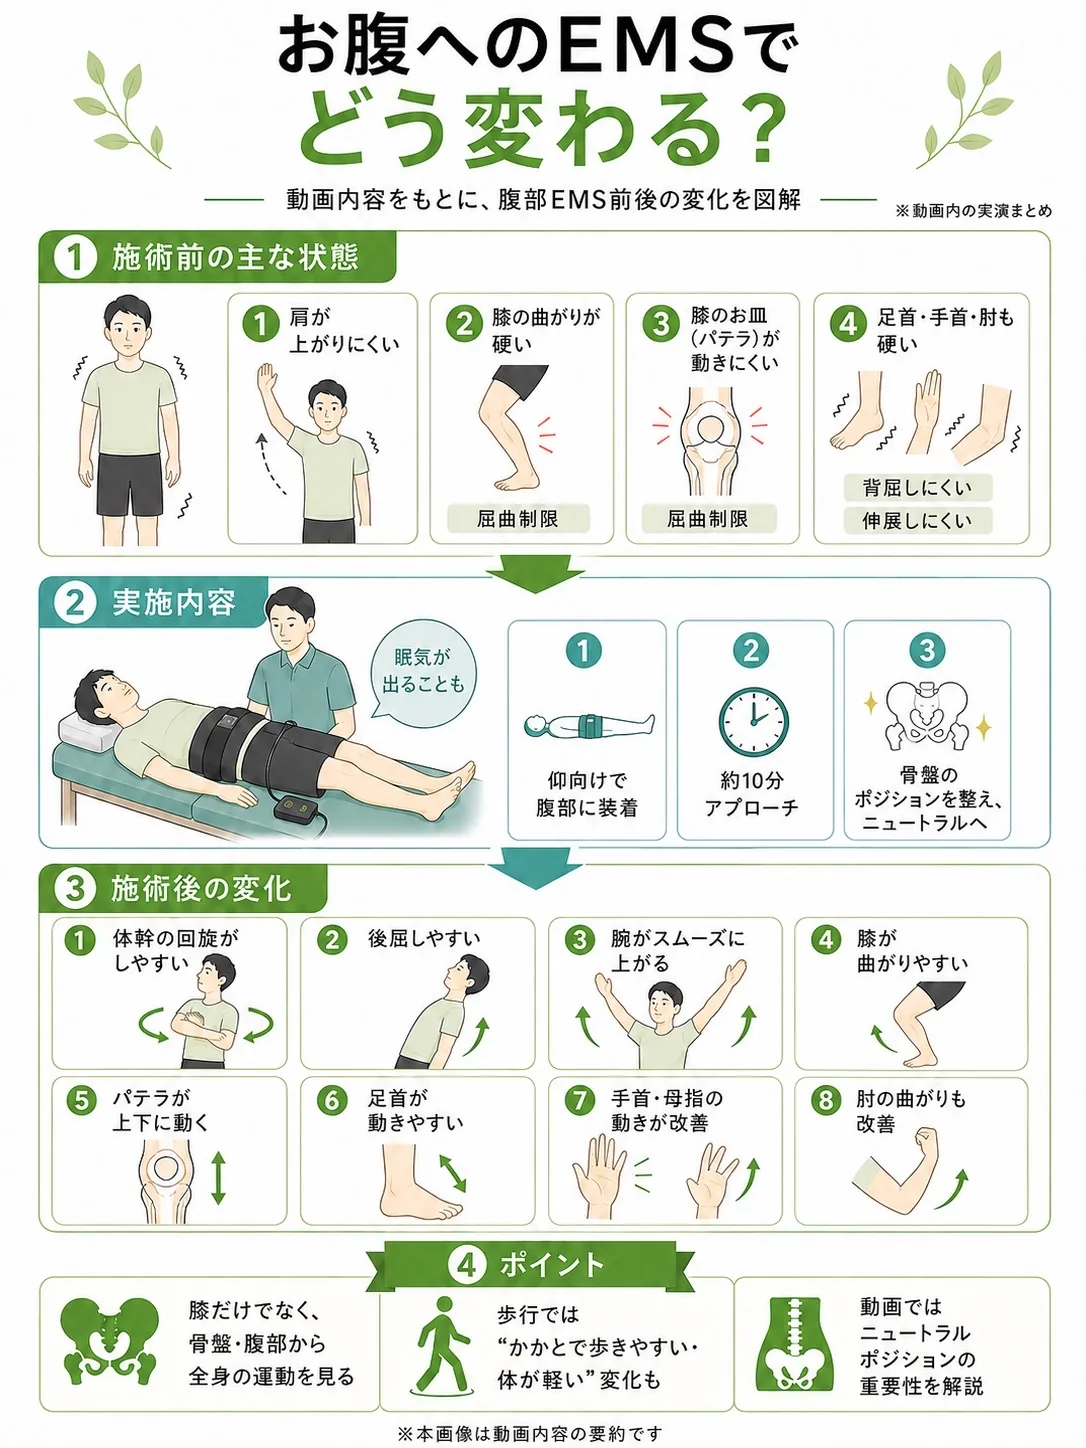
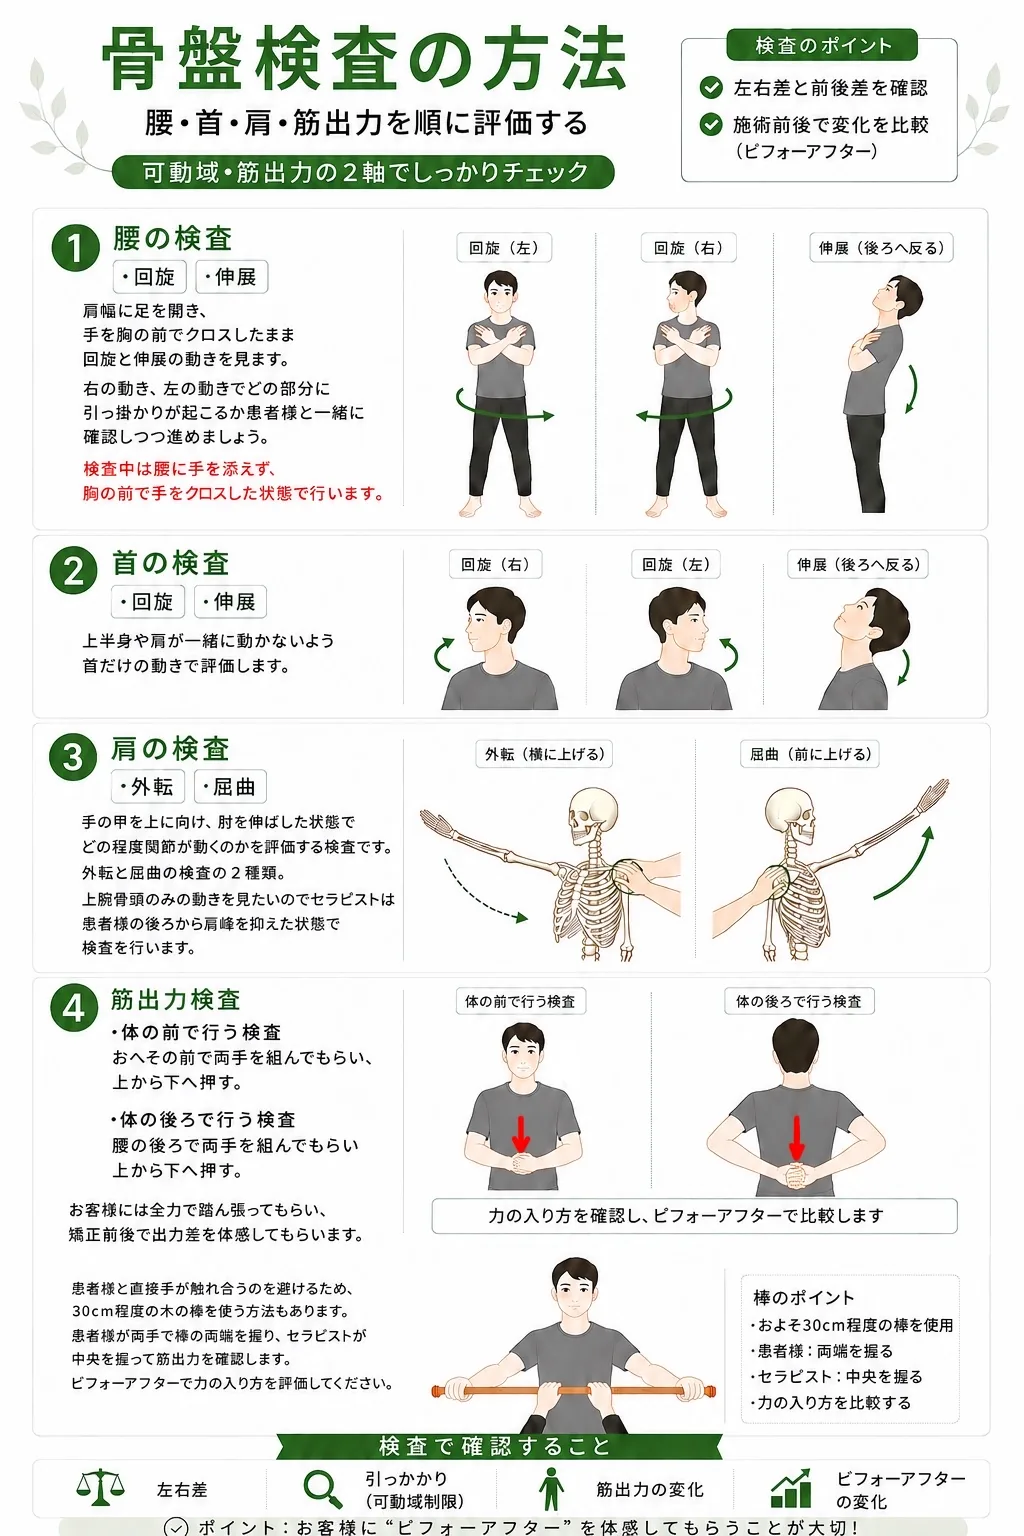
fix: 検査フローの inspection-overview 図解を新しい図解に差し替え（115.png）
- assets/inspection-overview.{png,webp} を 115.png ベースに更新（webp 165KB）
- 既存 alt（腰・首・肩・筋出力の検査項目）が新図解の内容と一致するため据え置き
- cache buster: v=20260509i → v=20260509j（HTML 8ファイル + SW VERSION）

diff --git a/index.html b/index.html
@@ -16,7 +16,7 @@
     <meta property="og:description" content="整骨院・整体院・治療院・サロン向け。理論・検査・装着・EMS・使い分けまでを1ページで集約した導入支援サイト。" />
     <meta property="og:type" content="website" />
     <meta property="og:url" content="https://tmk4men.github.io/yo-ki-hi-lp/" />
-    <meta property="og:image" content="https://tmk4men.github.io/yo-ki-hi-lp/assets/og-image.jpg?v=20260509i" />
+    <meta property="og:image" content="https://tmk4men.github.io/yo-ki-hi-lp/assets/og-image.jpg?v=20260509j" />
     <meta property="og:image:type" content="image/jpeg" />
     <meta property="og:image:width" content="1200" />
     <meta property="og:image:height" content="630" />
@@ -28,7 +28,7 @@
     <meta name="twitter:card" content="summary_large_image" />
     <meta name="twitter:title" content="Yo-Ki-Hi｜骨盤を立てる、姿勢の起点を整える。" />
     <meta name="twitter:description" content="整骨院・整体院・治療院・サロン向けの導入支援サイト。理論／検査／装着／EMS／使い分けを1ページで。" />
-    <meta name="twitter:image" content="https://tmk4men.github.io/yo-ki-hi-lp/assets/og-image.jpg?v=20260509i" />
+    <meta name="twitter:image" content="https://tmk4men.github.io/yo-ki-hi-lp/assets/og-image.jpg?v=20260509j" />
     <meta name="twitter:image:alt" content="Yo-Ki-Hi 骨盤ベルトとインナーパンツの着用イメージ" />
 
     <!-- 本番デプロイ時はドメインを実値に置換してください（OGP/Twitter/canonical 4 メタの URL） -->
@@ -36,7 +36,7 @@
     <link rel="icon" type="image/svg+xml" href="./assets/favicon.svg" />
     <link rel="preconnect" href="https://www.youtube-nocookie.com" />
     <link rel="preconnect" href="https://i.ytimg.com" />
-    <link rel="stylesheet" href="./style.css?v=20260509i" />
+    <link rel="stylesheet" href="./style.css?v=20260509j" />
     <link rel="manifest" href="./manifest.webmanifest" />
 
     <script type="application/ld+json">
@@ -48,7 +48,7 @@
           "@id": "https://tmk4men.github.io/yo-ki-hi-lp/#org",
           "name": "Yo-Ki-Hi",
           "url": "https://tmk4men.github.io/yo-ki-hi-lp/",
-          "logo": "https://tmk4men.github.io/yo-ki-hi-lp/assets/og-image.jpg?v=20260509i",
+          "logo": "https://tmk4men.github.io/yo-ki-hi-lp/assets/og-image.jpg?v=20260509j",
           "description": "整骨院・整体院・治療院・サロン向け、骨盤ベルト／インナーパンツの導入支援。"
         },
         {
@@ -65,7 +65,7 @@
           "category": "骨盤ベルト",
           "description": "骨盤を立てて姿勢の起点を整える、施術後・日常向けの骨盤ベルト。",
           "brand": { "@id": "https://tmk4men.github.io/yo-ki-hi-lp/#org" },
-          "image": "https://tmk4men.github.io/yo-ki-hi-lp/assets/og-image.jpg?v=20260509i"
+          "image": "https://tmk4men.github.io/yo-ki-hi-lp/assets/og-image.jpg?v=20260509j"
         },
         {
           "@type": "Product",
@@ -73,7 +73,7 @@
           "category": "骨盤サポートインナー",
           "description": "ズレにくく、運動・長時間使用に向く骨盤サポートインナーパンツ。",
           "brand": { "@id": "https://tmk4men.github.io/yo-ki-hi-lp/#org" },
-          "image": "https://tmk4men.github.io/yo-ki-hi-lp/assets/og-image.jpg?v=20260509i"
+          "image": "https://tmk4men.github.io/yo-ki-hi-lp/assets/og-image.jpg?v=20260509j"
         }
       ]
     }
@@ -347,7 +347,7 @@
 
           <figure class="inspection-poster card-surface">
             <img
-              src="./assets/inspection-overview.webp?v=20260509i"
+              src="./assets/inspection-overview.webp?v=20260509j"
               alt="ベルトの『ビフォー・アフター・ビフォー』検査の流れと、検査項目（腰・首・肩・筋出力など）を1枚にまとめた図解。"
               loading="lazy"
             />
@@ -465,7 +465,7 @@
 
           <figure class="wearing-poster card-surface">
             <img
-              src="./assets/wearing-overview.webp?v=20260509i"
+              src="./assets/wearing-overview.webp?v=20260509j"
               alt="骨盤ベルトの正しい装着位置と、装着時のポイントを1枚にまとめた図解"
               loading="lazy"
             />
@@ -716,7 +716,7 @@
 
           <figure class="ems-figure card-surface">
             <img
-              src="./assets/ems-overview.webp?v=20260509i"
+              src="./assets/ems-overview.webp?v=20260509j"
               alt="ベルトとEMSを組み合わせた活用方法を1枚にまとめた図解。施術前後の体の変化や、EMSを当てる位置・ポイントを確認できる。"
               loading="lazy"
             />
@@ -862,6 +862,6 @@
       <svg class="icon" viewBox="0 0 24 24" aria-hidden="true"><path d="M5 12h14"/><polyline points="13 6 19 12 13 18"/></svg>
     </a>
 
-    <script src="./app.js?v=20260509i" defer></script>
+    <script src="./app.js?v=20260509j" defer></script>
   </body>
 </html>

diff --git a/posture.html b/posture.html
@@ -14,18 +14,18 @@
     <meta property="og:description" content="装着前後の写真から、肩・骨盤・頭部の傾きを数値で比較できるブラウザ完結型ツール。" />
     <meta property="og:type" content="website" />
     <meta property="og:url" content="https://tmk4men.github.io/yo-ki-hi-lp/posture.html" />
-    <meta property="og:image" content="https://tmk4men.github.io/yo-ki-hi-lp/assets/og-image.jpg?v=20260509i" />
+    <meta property="og:image" content="https://tmk4men.github.io/yo-ki-hi-lp/assets/og-image.jpg?v=20260509j" />
     <meta property="og:site_name" content="Yo-Ki-Hi" />
     <meta property="og:locale" content="ja_JP" />
     <meta name="twitter:card" content="summary_large_image" />
     <meta name="twitter:title" content="Yo-Ki-Hi｜姿勢分析" />
     <meta name="twitter:description" content="装着前後の写真から、肩・骨盤・頭部の傾きを数値で比較できるブラウザ完結型ツール。" />
-    <meta name="twitter:image" content="https://tmk4men.github.io/yo-ki-hi-lp/assets/og-image.jpg?v=20260509i" />
+    <meta name="twitter:image" content="https://tmk4men.github.io/yo-ki-hi-lp/assets/og-image.jpg?v=20260509j" />
 
     <link rel="canonical" href="https://tmk4men.github.io/yo-ki-hi-lp/posture.html" />
     <link rel="icon" type="image/svg+xml" href="./assets/favicon.svg" />
-    <link rel="stylesheet" href="./style.css?v=20260509i" />
-    <link rel="stylesheet" href="./posture.css?v=20260509i" />
+    <link rel="stylesheet" href="./style.css?v=20260509j" />
+    <link rel="stylesheet" href="./posture.css?v=20260509j" />
   </head>
   <body>
     <a href="#posture-tool" class="skip-link">本文へスキップ</a>
@@ -223,7 +223,7 @@
       </footer>
     </div>
 
-    <script src="./app.js?v=20260509i" defer></script>
-    <script type="module" src="./posture.js?v=20260509i"></script>
+    <script src="./app.js?v=20260509j" defer></script>
+    <script type="module" src="./posture.js?v=20260509j"></script>
   </body>
 </html>

diff --git a/purchase-login.html b/purchase-login.html
@@ -15,17 +15,17 @@
     <meta property="og:description" content="案内されたパスワードを入力すると、対象の購入ページへお進みいただけます。" />
     <meta property="og:type" content="website" />
     <meta property="og:url" content="https://tmk4men.github.io/yo-ki-hi-lp/purchase-login.html" />
-    <meta property="og:image" content="https://tmk4men.github.io/yo-ki-hi-lp/assets/og-image.jpg?v=20260509i" />
+    <meta property="og:image" content="https://tmk4men.github.io/yo-ki-hi-lp/assets/og-image.jpg?v=20260509j" />
     <meta property="og:site_name" content="Yo-Ki-Hi" />
     <meta property="og:locale" content="ja_JP" />
     <meta name="twitter:card" content="summary_large_image" />
     <meta name="twitter:title" content="Yo-Ki-Hi｜購入ログイン" />
     <meta name="twitter:description" content="案内されたパスワードを入力すると、対象の購入ページへお進みいただけます。" />
-    <meta name="twitter:image" content="https://tmk4men.github.io/yo-ki-hi-lp/assets/og-image.jpg?v=20260509i" />
+    <meta name="twitter:image" content="https://tmk4men.github.io/yo-ki-hi-lp/assets/og-image.jpg?v=20260509j" />
 
     <link rel="canonical" href="https://tmk4men.github.io/yo-ki-hi-lp/purchase-login.html" />
     <link rel="icon" type="image/svg+xml" href="./assets/favicon.svg" />
-    <link rel="stylesheet" href="./style.css?v=20260509i" />
+    <link rel="stylesheet" href="./style.css?v=20260509j" />
   </head>
   <body>
     <a href="#purchase-login" class="skip-link">本文へスキップ</a>
@@ -147,7 +147,7 @@
       </footer>
     </div>
 
-    <script src="./app.js?v=20260509i" defer></script>
-    <script src="./purchase-login.js?v=20260509i" defer></script>
+    <script src="./app.js?v=20260509j" defer></script>
+    <script src="./purchase-login.js?v=20260509j" defer></script>
   </body>
 </html>

diff --git a/404.html b/404.html
@@ -11,16 +11,16 @@
     <meta property="og:title" content="Yo-Ki-Hi｜ページが見つかりません" />
     <meta property="og:description" content="お探しのページは見つかりませんでした。" />
     <meta property="og:type" content="website" />
-    <meta property="og:image" content="https://tmk4men.github.io/yo-ki-hi-lp/assets/og-image.jpg?v=20260509i" />
+    <meta property="og:image" content="https://tmk4men.github.io/yo-ki-hi-lp/assets/og-image.jpg?v=20260509j" />
     <meta property="og:site_name" content="Yo-Ki-Hi" />
     <meta property="og:locale" content="ja_JP" />
     <meta name="twitter:card" content="summary_large_image" />
     <meta name="twitter:title" content="Yo-Ki-Hi｜ページが見つかりません" />
     <meta name="twitter:description" content="お探しのページは見つかりませんでした。" />
-    <meta name="twitter:image" content="https://tmk4men.github.io/yo-ki-hi-lp/assets/og-image.jpg?v=20260509i" />
+    <meta name="twitter:image" content="https://tmk4men.github.io/yo-ki-hi-lp/assets/og-image.jpg?v=20260509j" />
 
     <link rel="icon" type="image/svg+xml" href="./assets/favicon.svg" />
-    <link rel="stylesheet" href="./style.css?v=20260509i" />
+    <link rel="stylesheet" href="./style.css?v=20260509j" />
   </head>
   <body>
     <div class="grain-overlay" aria-hidden="true"></div>
@@ -72,6 +72,6 @@
       </footer>
     </div>
 
-    <script src="./app.js?v=20260509i" defer></script>
+    <script src="./app.js?v=20260509j" defer></script>
   </body>
 </html>

diff --git a/purchase-hiramori.html b/purchase-hiramori.html
@@ -15,17 +15,17 @@
     <meta property="og:description" content="平森先生のコミュニティに参加されている塾生の皆さま向け、専用の購入ページです。" />
     <meta property="og:type" content="website" />
     <meta property="og:url" content="https://tmk4men.github.io/yo-ki-hi-lp/purchase-hiramori.html" />
-    <meta property="og:image" content="https://tmk4men.github.io/yo-ki-hi-lp/assets/og-image.jpg?v=20260509i" />
+    <meta property="og:image" content="https://tmk4men.github.io/yo-ki-hi-lp/assets/og-image.jpg?v=20260509j" />
     <meta property="og:site_name" content="Yo-Ki-Hi" />
     <meta property="og:locale" content="ja_JP" />
     <meta name="twitter:card" content="summary_large_image" />
     <meta name="twitter:title" content="Yo-Ki-Hi｜平森先生 塾生向け 購入ページ" />
     <meta name="twitter:description" content="平森先生コミュニティの塾生の皆さま向け、専用の購入ページです。" />
-    <meta name="twitter:image" content="https://tmk4men.github.io/yo-ki-hi-lp/assets/og-image.jpg?v=20260509i" />
+    <meta name="twitter:image" content="https://tmk4men.github.io/yo-ki-hi-lp/assets/og-image.jpg?v=20260509j" />
 
     <link rel="canonical" href="https://tmk4men.github.io/yo-ki-hi-lp/purchase-hiramori.html" />
     <link rel="icon" type="image/svg+xml" href="./assets/favicon.svg" />
-    <link rel="stylesheet" href="./style.css?v=20260509i" />
+    <link rel="stylesheet" href="./style.css?v=20260509j" />
   </head>
   <body>
     <a href="#purchase-list" class="skip-link">本文へスキップ</a>
@@ -132,6 +132,6 @@
       </footer>
     </div>
 
-    <script src="./app.js?v=20260509i" defer></script>
+    <script src="./app.js?v=20260509j" defer></script>
   </body>
 </html>

diff --git a/purchase-ota.html b/purchase-ota.html
@@ -15,17 +15,17 @@
     <meta property="og:description" content="太田先生のコミュニティに参加されている塾生の皆さま向け、専用の購入ページです。" />
     <meta property="og:type" content="website" />
     <meta property="og:url" content="https://tmk4men.github.io/yo-ki-hi-lp/purchase-ota.html" />
-    <meta property="og:image" content="https://tmk4men.github.io/yo-ki-hi-lp/assets/og-image.jpg?v=20260509i" />
+    <meta property="og:image" content="https://tmk4men.github.io/yo-ki-hi-lp/assets/og-image.jpg?v=20260509j" />
     <meta property="og:site_name" content="Yo-Ki-Hi" />
     <meta property="og:locale" content="ja_JP" />
     <meta name="twitter:card" content="summary_large_image" />
     <meta name="twitter:title" content="Yo-Ki-Hi｜太田先生 塾生向け 購入ページ" />
     <meta name="twitter:description" content="太田先生コミュニティの塾生の皆さま向け、専用の購入ページです。" />
-    <meta name="twitter:image" content="https://tmk4men.github.io/yo-ki-hi-lp/assets/og-image.jpg?v=20260509i" />
+    <meta name="twitter:image" content="https://tmk4men.github.io/yo-ki-hi-lp/assets/og-image.jpg?v=20260509j" />
 
     <link rel="canonical" href="https://tmk4men.github.io/yo-ki-hi-lp/purchase-ota.html" />
     <link rel="icon" type="image/svg+xml" href="./assets/favicon.svg" />
-    <link rel="stylesheet" href="./style.css?v=20260509i" />
+    <link rel="stylesheet" href="./style.css?v=20260509j" />
   </head>
   <body>
     <a href="#purchase-list" class="skip-link">本文へスキップ</a>
@@ -132,6 +132,6 @@
       </footer>
     </div>
 
-    <script src="./app.js?v=20260509i" defer></script>
+    <script src="./app.js?v=20260509j" defer></script>
   </body>
 </html>

diff --git a/purchase-shop.html b/purchase-shop.html
@@ -15,17 +15,17 @@
     <meta property="og:description" content="取扱店契約済みの治療院・サロン、および一般導入者の皆さま向けの購入ページです。" />
     <meta property="og:type" content="website" />
     <meta property="og:url" content="https://tmk4men.github.io/yo-ki-hi-lp/purchase-shop.html" />
-    <meta property="og:image" content="https://tmk4men.github.io/yo-ki-hi-lp/assets/og-image.jpg?v=20260509i" />
+    <meta property="og:image" content="https://tmk4men.github.io/yo-ki-hi-lp/assets/og-image.jpg?v=20260509j" />
     <meta property="og:site_name" content="Yo-Ki-Hi" />
     <meta property="og:locale" content="ja_JP" />
     <meta name="twitter:card" content="summary_large_image" />
     <meta name="twitter:title" content="Yo-Ki-Hi｜導入店・一般導入者向け 購入ページ" />
     <meta name="twitter:description" content="導入店契約済みの治療院・サロン、および一般導入者の皆さま向けの購入ページです。" />
-    <meta name="twitter:image" content="https://tmk4men.github.io/yo-ki-hi-lp/assets/og-image.jpg?v=20260509i" />
+    <meta name="twitter:image" content="https://tmk4men.github.io/yo-ki-hi-lp/assets/og-image.jpg?v=20260509j" />
 
     <link rel="canonical" href="https://tmk4men.github.io/yo-ki-hi-lp/purchase-shop.html" />
     <link rel="icon" type="image/svg+xml" href="./assets/favicon.svg" />
-    <link rel="stylesheet" href="./style.css?v=20260509i" />
+    <link rel="stylesheet" href="./style.css?v=20260509j" />
   </head>
   <body>
     <a href="#purchase-list" class="skip-link">本文へスキップ</a>
@@ -134,6 +134,6 @@
       </footer>
     </div>
 
-    <script src="./app.js?v=20260509i" defer></script>
+    <script src="./app.js?v=20260509j" defer></script>
   </body>
 </html>

diff --git a/tokushoho.html b/tokushoho.html
@@ -11,17 +11,17 @@
     <meta property="og:description" content="販売者情報、お支払い方法、配送、返品等の条件をご案内します。" />
     <meta property="og:type" content="website" />
     <meta property="og:url" content="https://tmk4men.github.io/yo-ki-hi-lp/tokushoho.html" />
-    <meta property="og:image" content="https://tmk4men.github.io/yo-ki-hi-lp/assets/og-image.jpg?v=20260509i" />
+    <meta property="og:image" content="https://tmk4men.github.io/yo-ki-hi-lp/assets/og-image.jpg?v=20260509j" />
     <meta property="og:site_name" content="Yo-Ki-Hi" />
     <meta property="og:locale" content="ja_JP" />
     <meta name="twitter:card" content="summary_large_image" />
     <meta name="twitter:title" content="Yo-Ki-Hi｜特定商取引法に基づく表記" />
     <meta name="twitter:description" content="販売者情報、お支払い方法、配送、返品等の条件をご案内します。" />
-    <meta name="twitter:image" content="https://tmk4men.github.io/yo-ki-hi-lp/assets/og-image.jpg?v=20260509i" />
+    <meta name="twitter:image" content="https://tmk4men.github.io/yo-ki-hi-lp/assets/og-image.jpg?v=20260509j" />
 
     <link rel="canonical" href="https://tmk4men.github.io/yo-ki-hi-lp/tokushoho.html" />
     <link rel="icon" type="image/svg+xml" href="./assets/favicon.svg" />
-    <link rel="stylesheet" href="./style.css?v=20260509i" />
+    <link rel="stylesheet" href="./style.css?v=20260509j" />
   </head>
   <body>
     <a href="#main" class="skip-link">本文へスキップ</a>
@@ -137,6 +137,6 @@
       </footer>
     </div>
 
-    <script src="./app.js?v=20260509i" defer></script>
+    <script src="./app.js?v=20260509j" defer></script>
   </body>
 </html>

diff --git a/service-worker.js b/service-worker.js
@@ -4,7 +4,7 @@
   - 認証ページはキャッシュさせない
 */
 
-const VERSION = "yokihi-v20260509i";
+const VERSION = "yokihi-v20260509j";
 const STATIC_ASSETS = [
   "/",
   "/index.html",